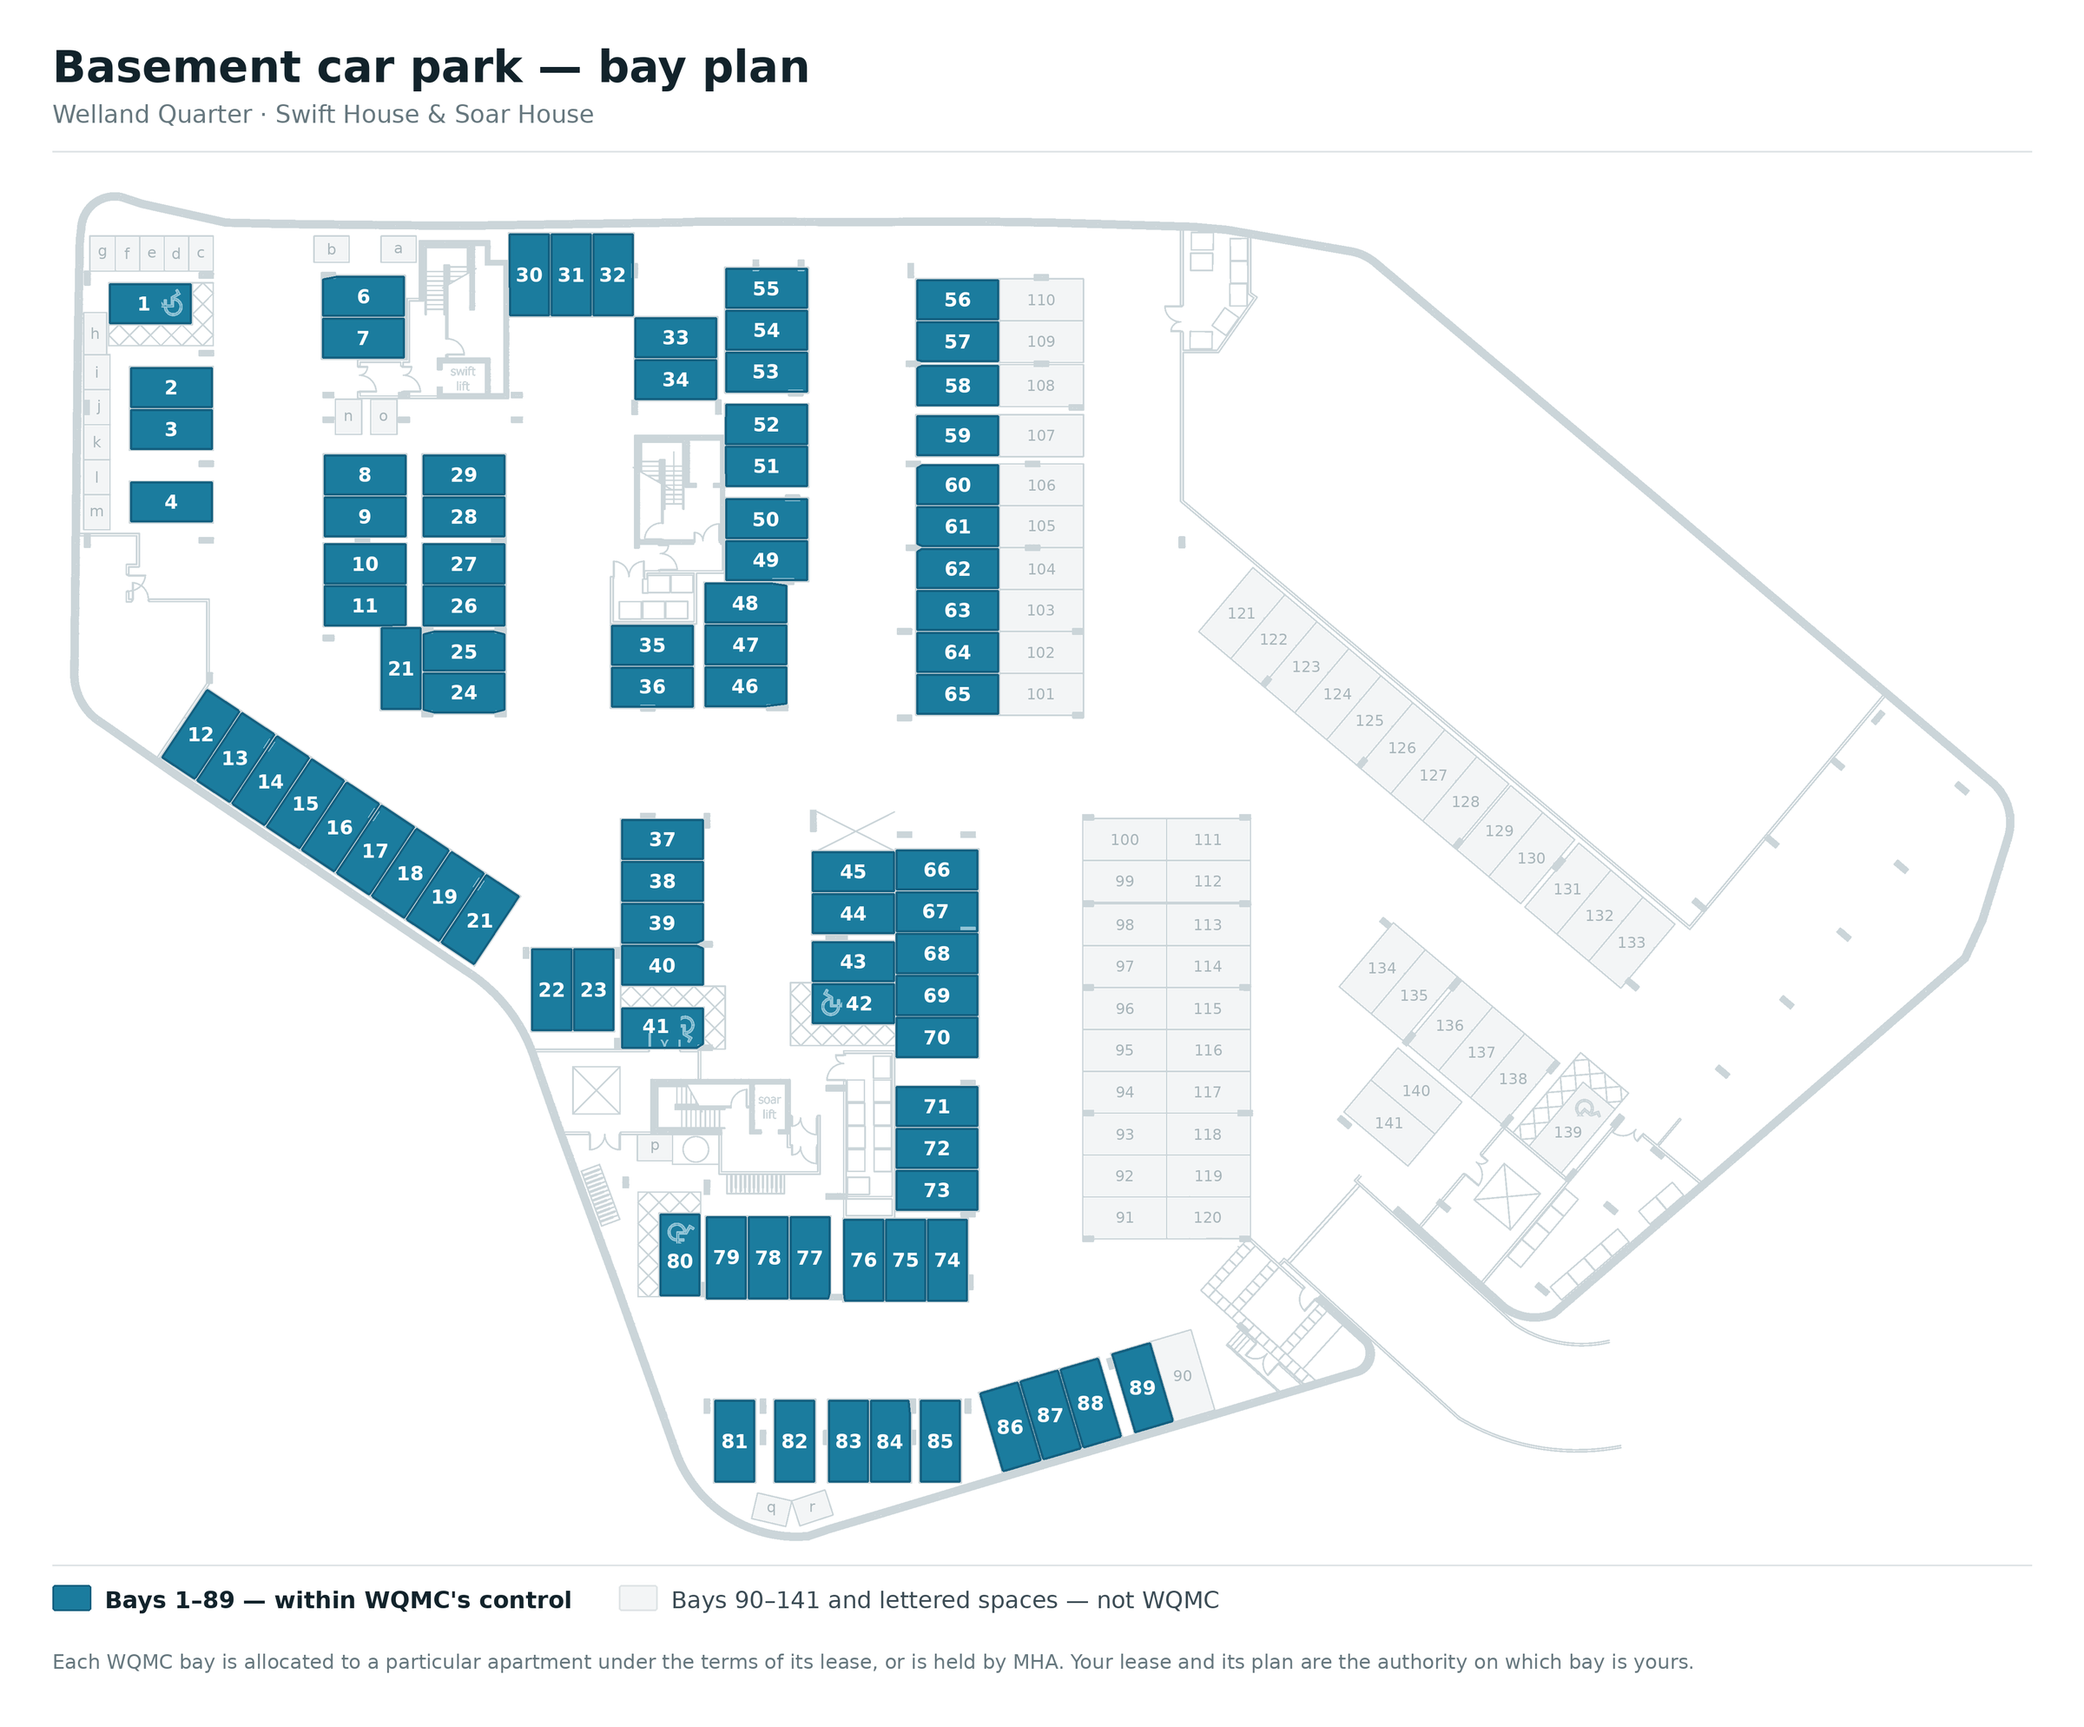
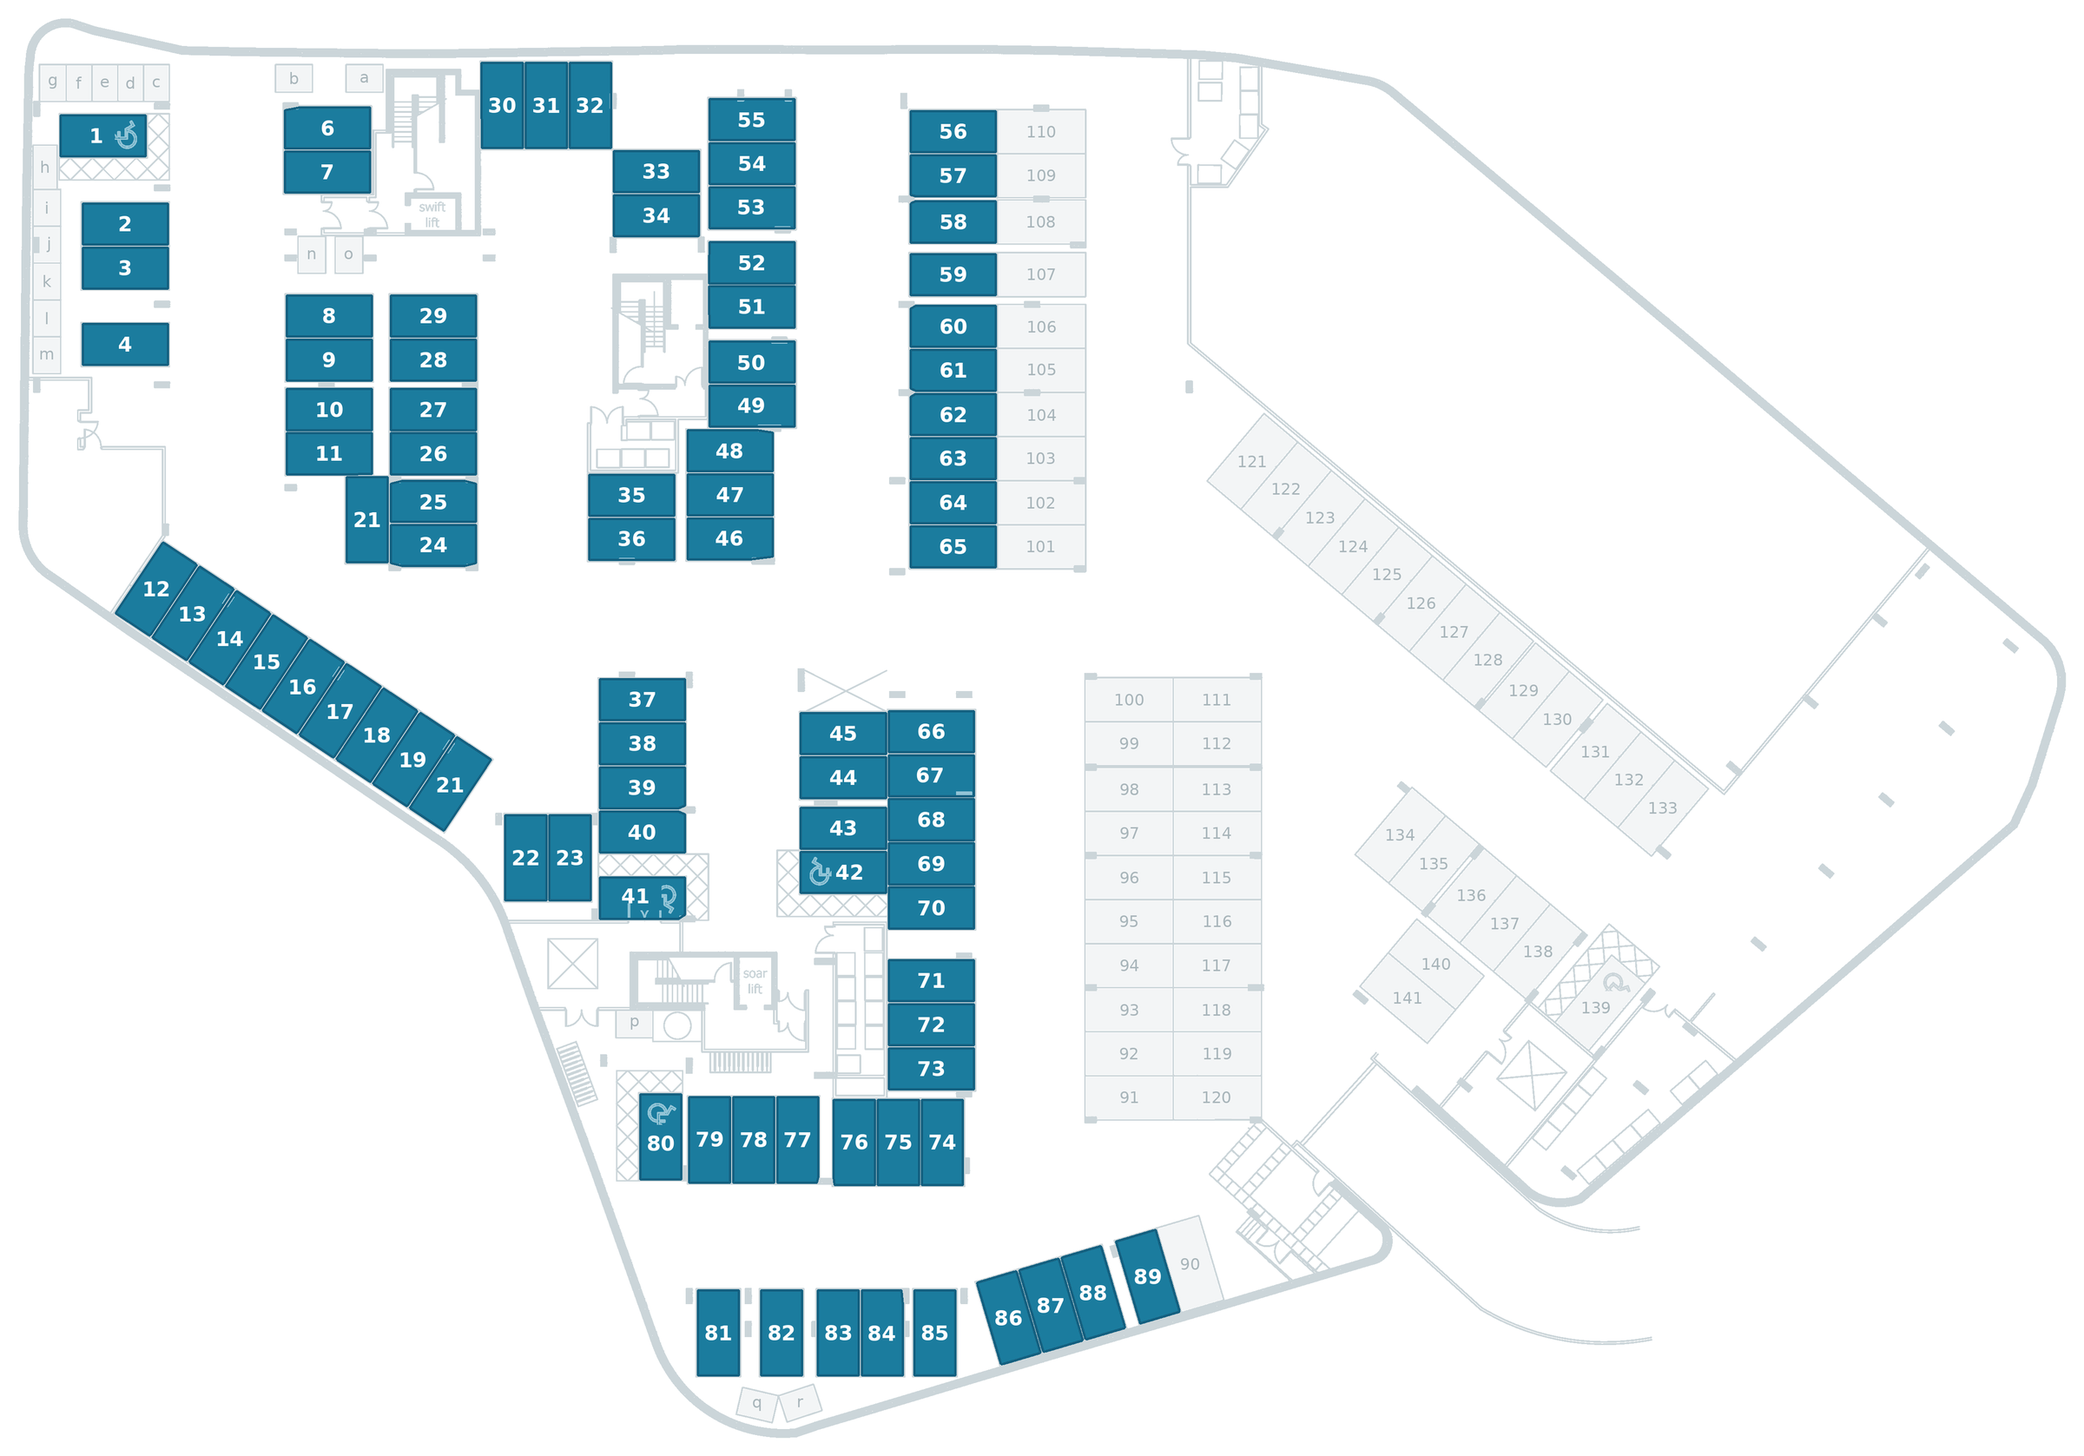
Parking preview: drawing-only plan on the page, titled version for print

diff --git a/parking-preview.html b/parking-preview.html
@@ -279,7 +279,7 @@
     </div>
     <figure class="planfig">
       <a href="basement-bay-plan.png" target="_blank" rel="noopener">
-        <img src="basement-bay-plan.png" width="2400" height="1988" loading="lazy"
+        <img src="basement-bay-plan.png" width="2400" height="1677" loading="lazy"
              alt="Plan of the Welland Quarter basement car park. Bays numbered 1 to 89 are
                   shaded, and bays 90 to 141 together with the lettered spaces are shown in
                   outline only.">
